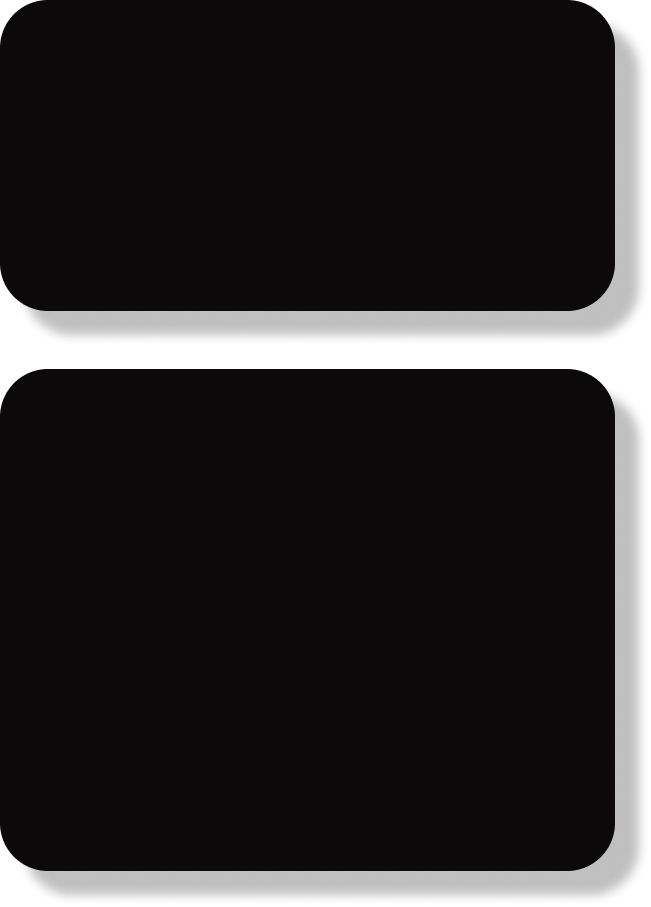
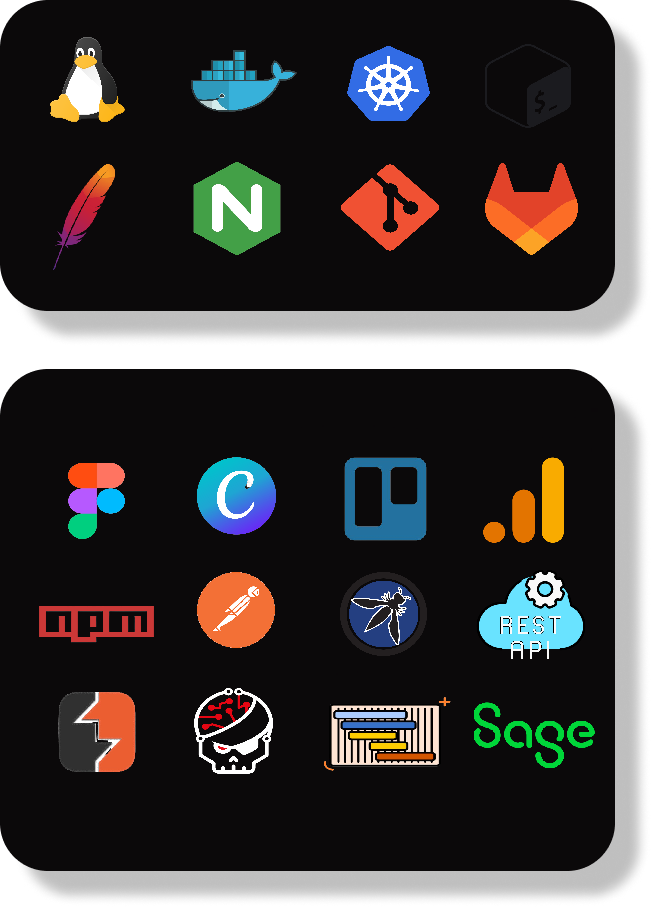
feat: add portfolio link on link.png and update stacks image

diff --git a/README.md b/README.md
@@ -1,24 +1,19 @@
 <img align="left" alt="Hi" width="100%" src="https://raw.githubusercontent.com/EvannT-acc/EvannT-acc/main/assets/hi.png" />
-
-<img align="left" alt="Link" width="100%" src="https://raw.githubusercontent.com/EvannT-acc/EvannT-acc/main/assets/link.png" />
-
+<a href="https://evann-terrier-portfolio.pages.dev/" target="_blank">
+  <img align="left" alt="Link" width="100%" src="https://raw.githubusercontent.com/EvannT-acc/EvannT-acc/main/assets/link.png" />
+</a>
 <img align="left" alt="Mon métier" width="100%" src="https://raw.githubusercontent.com/EvannT-acc/EvannT-acc/main/assets/mon_metier.png" />
-
 <img align="left" alt="Note" width="100%" src="https://raw.githubusercontent.com/EvannT-acc/EvannT-acc/main/assets/note.png" />
-
 <img align="left" alt="Stack" width="100%" src="https://raw.githubusercontent.com/EvannT-acc/EvannT-acc/main/assets/mes_stacks.png" />
-
 <div align="center" style="display: flex; flex-direction: row;" width="100%">
   <img width="49%" src="https://raw.githubusercontent.com/EvannT-acc/EvannT-acc/main/assets/exemple_1_de_mes_stacks.png" />
   <img width="49%" src="https://raw.githubusercontent.com/EvannT-acc/EvannT-acc/main/assets/exemple_2_de_mes_stacks.png" />
 </div>
-
 <img align="left" alt="Connect" width="100%" src="https://raw.githubusercontent.com/EvannT-acc/EvannT-acc/main/assets/encadrement_connect_with_me.png" />
- 
- Soon
- 
-<img align="left" alt="Fin" width="100%" src="https://raw.githubusercontent.com/EvannT-acc/EvannT-acc/main/assets/fin_encadrement_connect_with_me.png" />
 
+ Soon
+
+<img align="left" alt="Fin" width="100%" src="https://raw.githubusercontent.com/EvannT-acc/EvannT-acc/main/assets/fin_encadrement_connect_with_me.png" />
 <div align="center">
   <img src="https://komarev.com/ghpvc/?username=EvannT-acc&color=660708&style=for-the-badge"/>
 </div>
